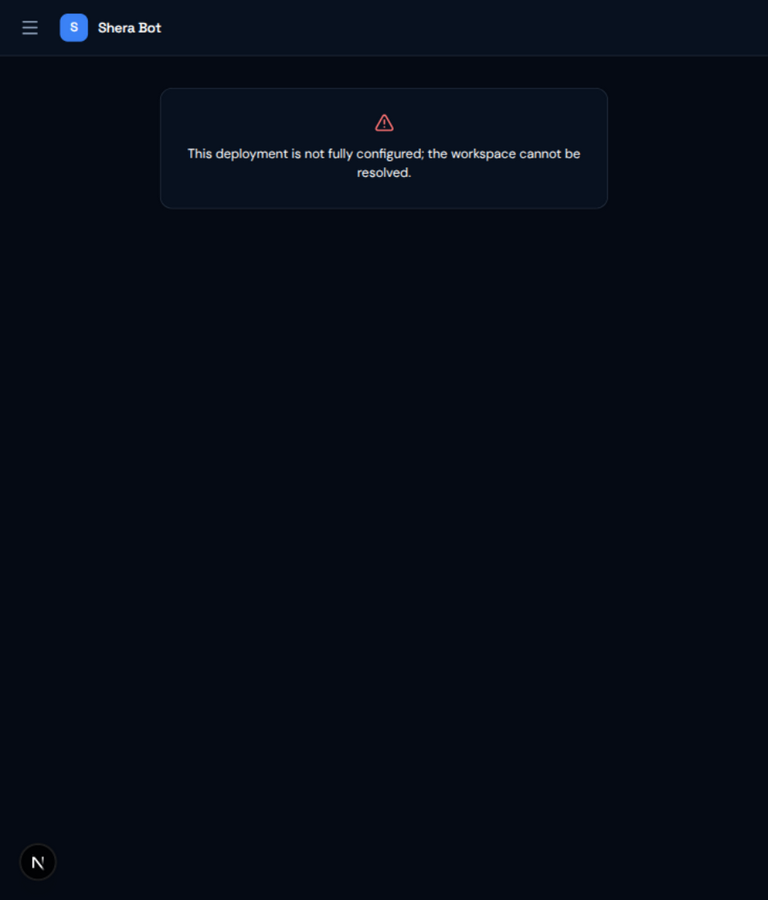
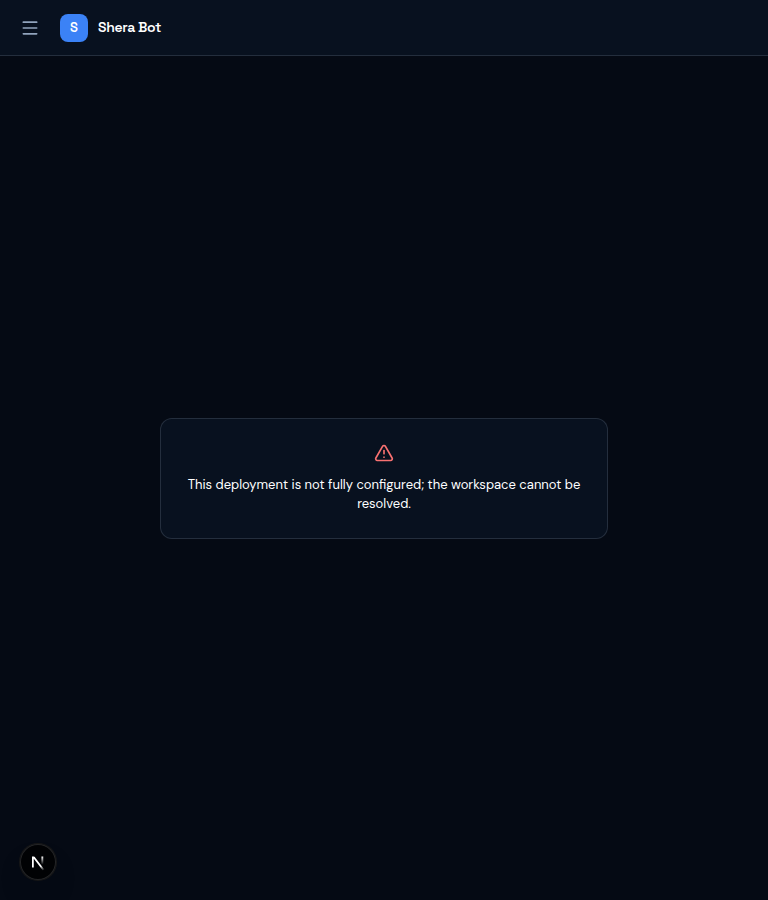
s11: failure panels center in their surface (§2.4)
Adversarial taste pass (P3): on the unconfigured deployment the gate error
panel hugged the top edge while every other gate state centers vertically;
the thread and settings error states had the same top-hug. The gate failed
case, the chat thread error, and the settings load-failure now render
inside a full-height centered flex wrapper — one consistent §2.4 error
placement. Geometry proof in the re-captures: panel at 390px above /
389px below at 1440×900 (was top-hugging at ~34px).

Evidence: gate-unconfigured-dashboard-{1440,768,360}.png (re-captured
against a deployment without a control plane — the honest unconfigured
state).

diff --git a/apps/web/test/container-gate.test.ts b/apps/web/test/container-gate.test.ts
@@ -132,6 +132,14 @@ describe("gate states", () => {
     expect(terminal).not.toMatch(/stack|correlation/i);
   });
 
+  it("failed centers the panel in the surface (§2.4, like every gate state)", () => {
+    const html = render({ kind: "failed", workspace_id: WORKSPACE, error: typedError() });
+    // The ErrorState is the child of a full-height centered flex wrapper — it
+    // never hugs the top edge.
+    expect(html).toMatch(/class="[^"]*flex h-full items-center justify-center[^"]*"/);
+    expect(html).toContain("Your workspace could not be prepared.");
+  });
+
   it("a ready container renders the dashboard children unchanged", () => {
     const html = render({ kind: "ready", workspace_id: WORKSPACE, runtime: READY_RUNTIME });
     expect(html).toContain("DASHBOARD-CONTENT");

diff --git a/apps/web/components/shell/container-gate.tsx b/apps/web/components/shell/container-gate.tsx
@@ -123,11 +123,15 @@ export function ContainerGateSurface({
         />
       );
     case "failed":
+      // §2.4: the failure panel sits in the vertical center of the surface,
+      // like every other gate state — never hugging the top edge.
       return (
-        <ErrorState
-          safeMessage={state.error.safe_message}
-          onRetry={state.error.retryable ? onRetry : undefined}
-        />
+        <div className="flex h-full items-center justify-center px-4">
+          <ErrorState
+            safeMessage={state.error.safe_message}
+            onRetry={state.error.retryable ? onRetry : undefined}
+          />
+        </div>
       );
     case "ready":
       return <>{children}</>;

diff --git a/apps/web/components/chat/agent-chat-view.tsx b/apps/web/components/chat/agent-chat-view.tsx
@@ -424,7 +424,11 @@ export function AgentChatView({
       {surfaceState === "loading" ? (
         <ThreadSkeleton />
       ) : surfaceState === "error" ? (
-        <ErrorState safeMessage={safeErrorMessage} onRetry={() => undefined} />
+        // §2.4: the error panel centers in the thread area, like every other
+        // full-surface state — it never hugs the top edge.
+        <div className="flex min-h-0 flex-1 items-center justify-center px-4">
+          <ErrorState safeMessage={safeErrorMessage} onRetry={() => undefined} />
+        </div>
       ) : renderedTimeline.length === 0 ? (
         <EmptyThread agentName={agent.display_name} />
       ) : (

diff --git a/apps/web/components/settings/agent-settings.tsx b/apps/web/components/settings/agent-settings.tsx
@@ -632,10 +632,12 @@ export function AgentSettingsView(props: AgentSettingsViewProps) {
   }
   if (surfaceState === "error" || !snapshot) {
     return (
-      <ErrorState
-        safeMessage={safeErrorMessage ?? "The Agent settings could not be loaded."}
-        onRetry={onRetry}
-      />
+      <div className="flex h-full items-center justify-center">
+        <ErrorState
+          safeMessage={safeErrorMessage ?? "The Agent settings could not be loaded."}
+          onRetry={onRetry}
+        />
+      </div>
     );
   }
 
